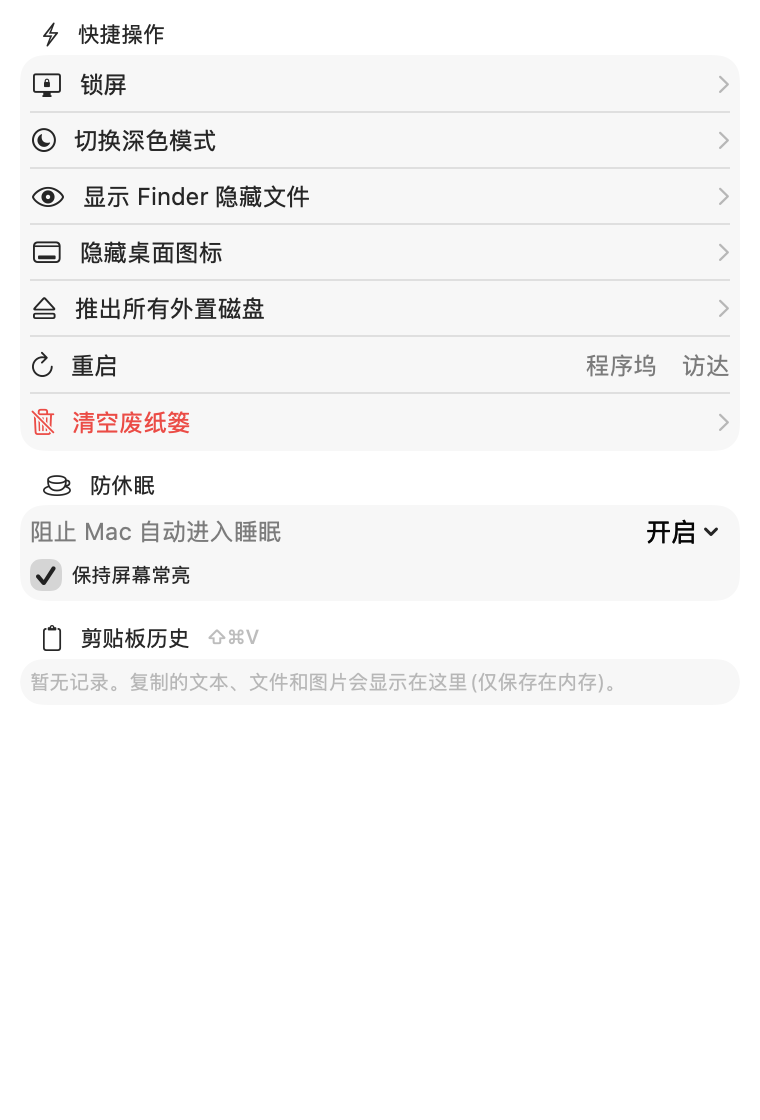
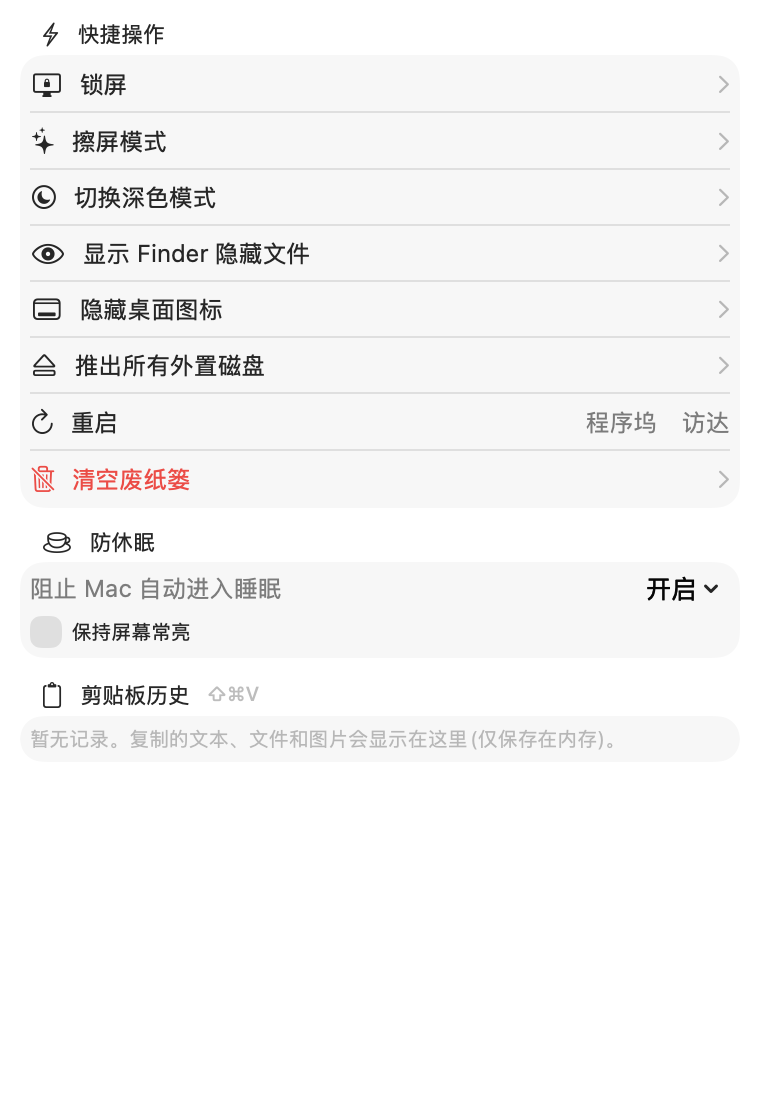
Add screen-clean mode and bump to 0.3.0
Fullscreen solid-color overlay on every display for wiping the screen
and keyboard: all keyDown events are swallowed (menu shortcuts included),
click/space toggles black/white, Esc or the corner button exits.

Generated with [Devin](https://devin.ai)

diff --git a/MacTool/Features/Tools/ScreenClean.swift b/MacTool/Features/Tools/ScreenClean.swift
@@ -1,0 +1,195 @@
+import AppKit
+import Carbon.HIToolbox
+import SwiftUI
+
+/// 擦屏模式:在所有显示器上铺一层全屏纯色窗口,方便擦拭屏幕与键盘。
+/// 期间吞掉全部按键(含 ⌘Q 等菜单快捷键),仅 Esc 退出、空格/点击切换黑白。
+@MainActor
+final class ScreenCleanController {
+    static let shared = ScreenCleanController()
+
+    let model = ScreenCleanModel()
+    private var windows: [ScreenCleanWindow] = []
+    private var screenObserver: NSObjectProtocol?
+
+    var isActive: Bool { !windows.isEmpty }
+
+    func show() {
+        guard !isActive else { return }
+        rebuildWindows()
+        screenObserver = NotificationCenter.default.addObserver(
+            forName: NSApplication.didChangeScreenParametersNotification,
+            object: nil,
+            queue: .main
+        ) { [weak self] _ in
+            Task { @MainActor in self?.rebuildWindows() }
+        }
+        // accessory App 要先激活才能收到按键
+        NSApp.activate()
+        mouseScreenWindow()?.makeKeyAndOrderFront(nil)
+    }
+
+    func dismiss() {
+        if let screenObserver { NotificationCenter.default.removeObserver(screenObserver) }
+        screenObserver = nil
+        tearDownWindows()
+        // 焦点还给之前的 App
+        NSApp.deactivate()
+    }
+
+    private func rebuildWindows() {
+        let rekey = isActive
+        tearDownWindows()
+        windows = NSScreen.screens.map { screen in
+            let window = ScreenCleanWindow(
+                contentRect: screen.frame,
+                styleMask: .borderless,
+                backing: .buffered,
+                defer: false,
+                screen: screen
+            )
+            // 盖住菜单栏 / Dock,并出现在所有桌面空间
+            window.level = .screenSaver
+            window.isOpaque = true
+            window.hasShadow = false
+            window.isMovable = false
+            window.isReleasedWhenClosed = false
+            window.collectionBehavior = [.canJoinAllSpaces, .stationary, .ignoresCycle, .fullScreenAuxiliary]
+            window.keyHandler = { [weak self] event in self?.handleKey(event) ?? true }
+            window.contentView = NSHostingView(rootView: ScreenCleanView(
+                model: model,
+                onCycle: { [weak self] in self?.model.cycle() },
+                onExit: { [weak self] in self?.dismiss() }
+            ))
+            window.orderFrontRegardless()
+            return window
+        }
+        if rekey { mouseScreenWindow()?.makeKeyAndOrderFront(nil) }
+    }
+
+    private func tearDownWindows() {
+        for window in windows {
+            window.orderOut(nil)
+            window.contentView = nil
+        }
+        windows.removeAll()
+    }
+
+    /// 鼠标所在屏幕的窗口做 key window,按键由它接收
+    private func mouseScreenWindow() -> ScreenCleanWindow? {
+        let mouse = NSEvent.mouseLocation
+        return windows.first { NSMouseInRect(mouse, $0.frame, false) } ?? windows.first
+    }
+
+    /// 恒返回 true:其余按键(包括 ⌘ 组合,不会走到菜单快捷键)全部吞掉,擦键盘不会误触
+    private func handleKey(_ event: NSEvent) -> Bool {
+        switch Int(event.keyCode) {
+        case kVK_Escape: dismiss()
+        case kVK_Space: model.cycle()
+        default: break
+        }
+        return true
+    }
+}
+
+/// 无边框窗口默认不能成为 key window,放开并在 sendEvent 里先拦 keyDown
+final class ScreenCleanWindow: NSWindow {
+    var keyHandler: ((NSEvent) -> Bool)?
+
+    override var canBecomeKey: Bool { true }
+
+    override func sendEvent(_ event: NSEvent) {
+        if event.type == .keyDown, keyHandler?(event) == true { return }
+        super.sendEvent(event)
+    }
+}
+
+@Observable
+@MainActor
+final class ScreenCleanModel {
+    enum Shade: String, CaseIterable {
+        case black, white
+
+        var color: Color { self == .black ? .black : .white }
+        var contrast: Color { self == .black ? .white : .black }
+    }
+
+    static let shadeKey = "screenCleanShade"
+
+    var shade = Shade(rawValue: UserDefaults.standard.string(forKey: ScreenCleanModel.shadeKey) ?? "") ?? .black {
+        didSet { UserDefaults.standard.set(shade.rawValue, forKey: Self.shadeKey) }
+    }
+
+    var hintVisible = true
+    private var lastActivity = Date.distantPast
+    private var hideTask: Task<Void, Never>?
+
+    /// 多屏共享一个 model,点击任意屏幕都同步换色
+    func cycle() {
+        let all = Shade.allCases
+        let next = (all.firstIndex(of: shade) ?? 0) + 1
+        shade = all[next % all.count]
+    }
+
+    /// 提示显示 2.5 秒后淡出;期间有鼠标活动会重新计时
+    func pokeHint() {
+        lastActivity = Date()
+        hintVisible = true
+        guard hideTask == nil else { return }
+        hideTask = Task { @MainActor [weak self] in
+            while let self, !Task.isCancelled {
+                let remaining = self.lastActivity.addingTimeInterval(2.5).timeIntervalSinceNow
+                if remaining <= 0 { break }
+                try? await Task.sleep(for: .seconds(remaining))
+            }
+            guard let self, !Task.isCancelled else { return }
+            self.hideTask = nil
+            withAnimation(.easeOut(duration: 0.4)) { self.hintVisible = false }
+        }
+    }
+}
+
+struct ScreenCleanView: View {
+    let model: ScreenCleanModel
+    let onCycle: () -> Void
+    let onExit: () -> Void
+
+    private var contrast: Color { model.shade.contrast }
+
+    var body: some View {
+        ZStack {
+            model.shade.color
+                .contentShape(Rectangle())
+                .onTapGesture { onCycle() }
+            VStack {
+                HStack {
+                    Spacer()
+                    Button(action: onExit) {
+                        Image(systemName: "xmark")
+                            .font(.system(size: 12, weight: .bold))
+                            .foregroundStyle(contrast.opacity(0.6))
+                            .padding(9)
+                            .background(contrast.opacity(0.14), in: Circle())
+                    }
+                    .buttonStyle(.plain)
+                    .padding(20)
+                }
+                Spacer()
+                Text("点击或空格切换黑白 · Esc 退出")
+                    .font(.callout)
+                    .foregroundStyle(contrast.opacity(0.55))
+                    .padding(.horizontal, 14)
+                    .padding(.vertical, 7)
+                    .background(contrast.opacity(0.09), in: Capsule())
+                    .allowsHitTesting(false)
+                    .padding(.bottom, 48)
+            }
+            .opacity(model.hintVisible ? 1 : 0)
+        }
+        .frame(maxWidth: .infinity, maxHeight: .infinity)
+        .onContinuousHover { phase in
+            if case .active = phase { model.pokeHint() }
+        }
+        .onAppear { model.pokeHint() }
+    }
+}

diff --git a/MacTool/Features/Tools/ToolsView.swift b/MacTool/Features/Tools/ToolsView.swift
@@ -15,6 +15,11 @@ struct ToolsView: View {
                             tools.lockScreen()
                         }
                         Divider()
+                        actionRow("擦屏模式", systemImage: "sparkles") {
+                            ScreenCleanController.shared.show()
+                        }
+                        .help("全屏显示纯色,方便擦拭屏幕和键盘;Esc 退出")
+                        Divider()
                         actionRow("切换深色模式", systemImage: "moon.circle") {
                             tools.toggleDarkMode()
                         }

diff --git a/MacToolTests/ScreenshotTests.swift b/MacToolTests/ScreenshotTests.swift
@@ -42,6 +42,7 @@ final class ScreenshotTests: XCTestCase {
             ("battery", AnyView(BatteryView())),
             ("cleaner", AnyView(CleanerView())),
             ("tools", AnyView(ToolsView())),
+            ("screenclean", AnyView(ScreenCleanView(model: ScreenCleanModel(), onCycle: {}, onExit: {}))),
         ]
         for (name, page) in pages {
             let view = page

diff --git a/AGENTS.md b/AGENTS.md
@@ -9,7 +9,7 @@ macOS 菜单栏常驻的实用工具应用(SwiftUI,最低系统 macOS 15,Apple S
 - **监控附加**: 网络测速、复制 IP、阈值通知(CPU/内存/磁盘)
 - **电池**: 电量、循环次数、健康度、温度/电压/功率,80% 充电提醒、低电量提醒、蓝牙设备电量
 - **清理**: 垃圾清理(缓存/日志/DerivedData/npm 等,移入废纸篓)、应用卸载(扫描 ~/Library 残留)、大文件查找
-- **工具**: 锁屏、Finder 隐藏文件、隐藏桌面图标、深色模式、推出外置磁盘、重启 Dock/访达、定时防休眠、清空废纸篓、剪贴板历史(文本/文件/图片,搜索置顶,全局快捷键弹窗)
+- **工具**: 锁屏、擦屏模式(全屏纯色盖所有显示器,吞掉按键方便擦键盘)、Finder 隐藏文件、隐藏桌面图标、深色模式、推出外置磁盘、重启 Dock/访达、定时防休眠、清空废纸篓、剪贴板历史(文本/文件/图片,搜索置顶,全局快捷键弹窗)
 
 ## 构建与验证
 
@@ -54,6 +54,7 @@ swift scripts/make-icon.swift   # 重新生成 AppIcon
 - 电池:新系统 AppleSmartBattery 的容量在 `BatteryData` 子字典,顶层 `MaxCapacity` 是百分比(见 `BatteryMath`);部分机型不提供温度
 - 锁屏用 login.framework 的 `SACLockScreenImmediate`(dlsym),旧的 CGSession 工具已被系统移除
 - 全局快捷键用 Carbon `RegisterEventHotKey`(`GlobalHotKey`,无需权限);剪贴板弹窗是 `.nonactivatingPanel` 的 `KeyablePanel`,导航键在 `sendEvent` 里拦截;自动粘贴模拟 ⌘V 需辅助功能权限(ad-hoc 签名每次重编译后权限可能失效,需重新勾选)
+- 擦屏模式(`ScreenCleanController`):每屏一个 `.borderless` 窗口铺满 `screen.frame`,level 用 `.screenSaver` 才能盖住菜单栏;多屏共享一个 model 同步换色;要 `NSApp.activate()` 才收得到按键,`sendEvent` 里吞掉所有 keyDown(⌘Q 也不会走到菜单),退出时 `NSApp.deactivate()` 交还焦点
 - 剪贴板忽略 `org.nspasteboard.ConcealedType` 等敏感标记;持久化只存文本/文件(`~/Library/Application Support/MacTool/clipboard.json`,0600)
 - 通知统一走 `Notifier.post`;阈值提醒用 `ThresholdTrigger`(持续时长 + 回落重新布防),开关 key 为 `alert_*`;截图/测试实例用 `alertsEnabled: false`
 - 测速用 `/usr/bin/networkQuality -c`(吞吐量单位是 bit/s);蓝牙电量解析 `system_profiler SPBluetoothDataType -json`(慢,仅电池页可见时轮询)

diff --git a/README.md b/README.md
@@ -49,7 +49,8 @@
 
 **工具**
 
-- 锁屏、显示隐藏文件、隐藏桌面图标、深色模式切换、推出所有外置磁盘、重启程序坞/访达
+- 锁屏、擦屏模式(全屏纯色覆盖所有显示器,点击/空格切换黑白,擦键盘不会误触,Esc 退出)
+- 显示隐藏文件、隐藏桌面图标、深色模式切换、推出所有外置磁盘、重启程序坞/访达
 - 防休眠:可定时(30 分钟 ~ 5 小时),可选仅阻止系统睡眠(退出自动恢复)
 - 清空废纸篓(经访达执行,含外接磁盘)
 - 剪贴板历史:文本/文件/图片,搜索、置顶;全局快捷键(默认 ⇧⌘V)呼出弹窗,选中自动粘贴(需辅助功能权限);可选保存到磁盘
